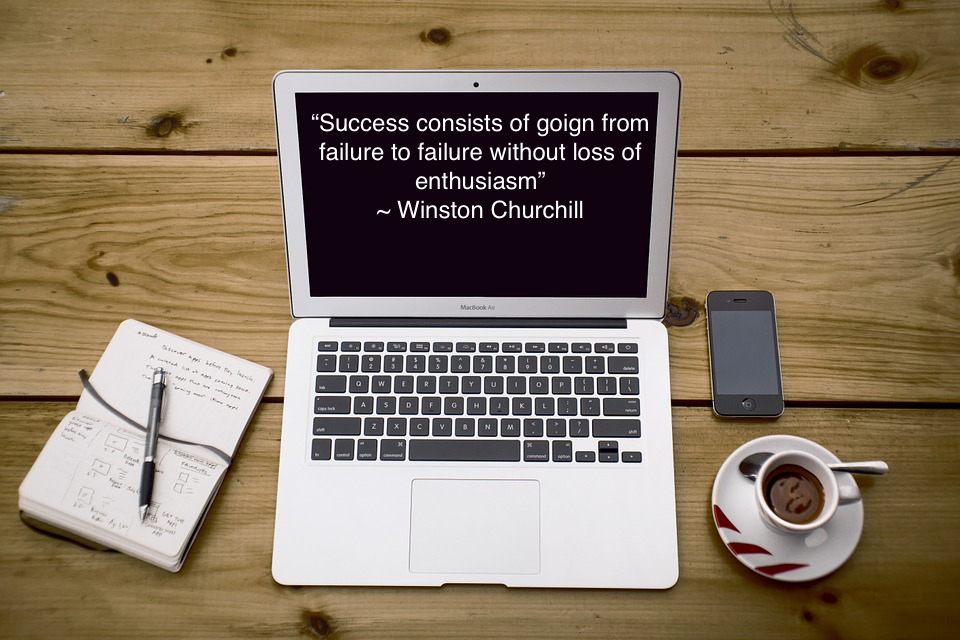
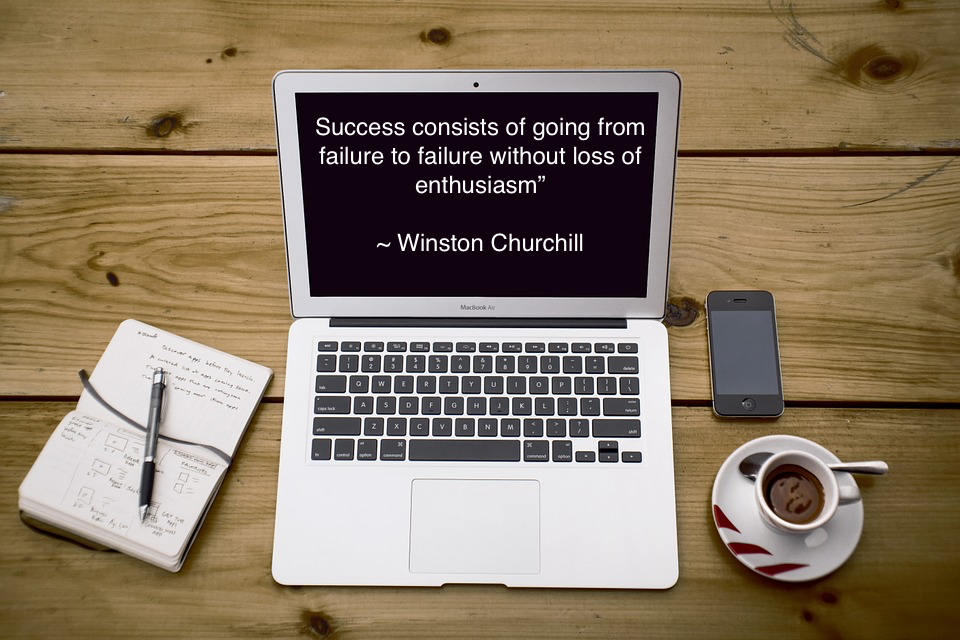
Fixed a spelling error on quote.

Changed region(s): [[0.3125, 0.1562, 0.6875, 0.4062]]

diff --git a/js/app.js b/js/app.js
@@ -13,6 +13,8 @@ $(window).scroll(function () {
         $(".navbar").css({
             'height':'75px',
             'font-size': '1.75em',
+            'color': '#87d37c',
+            'transition': 'all .1s ease-in-out'
         });
     } else {
         $(".navbar").css({
@@ -21,6 +23,7 @@ $(window).scroll(function () {
         });
     }
 });
+
 
 var Mitch = {
 

diff --git a/index.html b/index.html
@@ -254,7 +254,7 @@
 
     <!-- education -->
     <section class="intro1">
-      <div class="row ">
+      <div class="row">
         <div class="small 12-columns">
           <h4 class="center">Education</h4>
           <h5><a href="http://www.depauw.edu/">DePauw University</a></h5>
